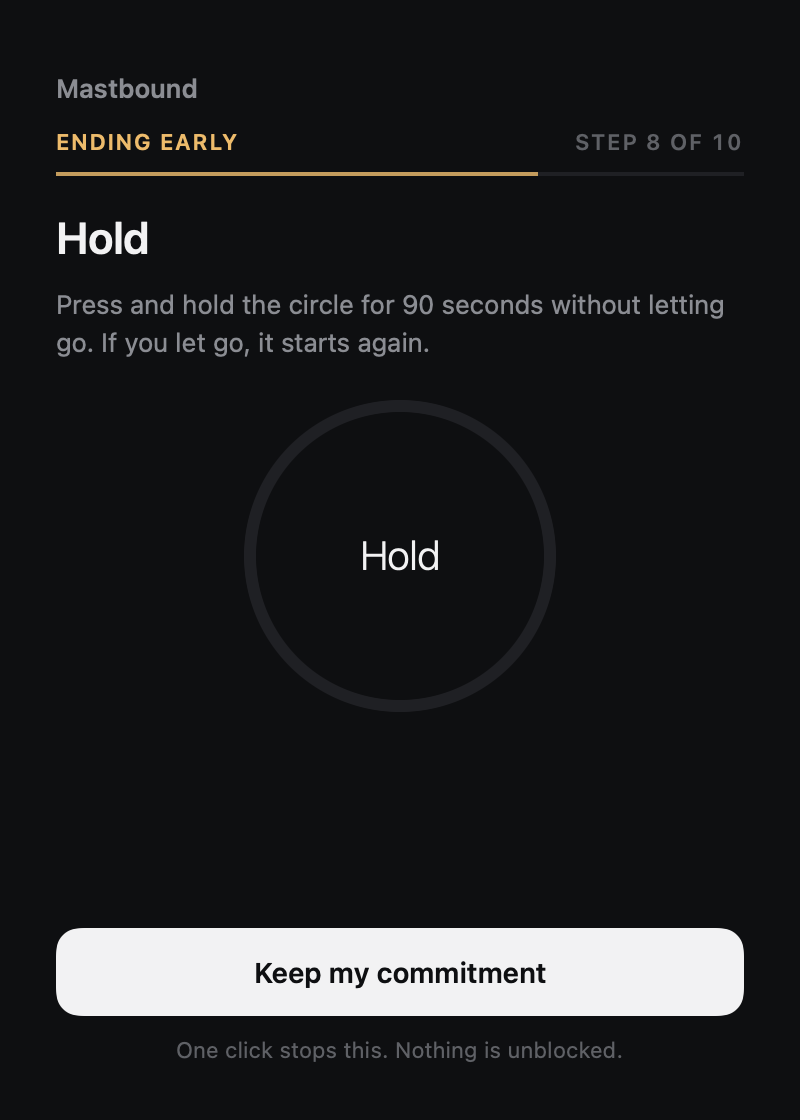
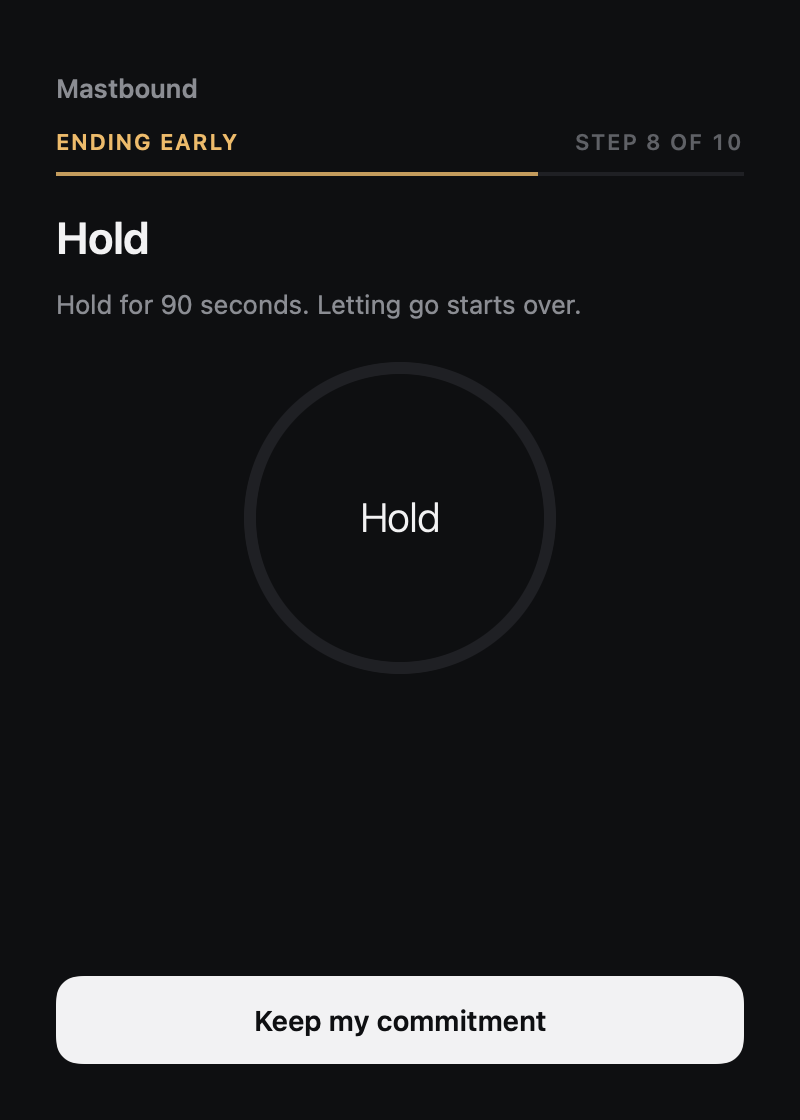
App: cut the early-end flow text to the minimum

Changed region(s): [[0.0625, 0.8125, 0.9375, 0.9688], [0.0625, 0.25, 0.9062, 0.3125], [0.4375, 0.4375, 0.5625, 0.5312]]

diff --git a/Sources/MastboundApp/QuitFlowView.swift b/Sources/MastboundApp/QuitFlowView.swift
@@ -14,15 +14,15 @@ enum QuitStep: Int, CaseIterable {
 
     var title: String {
         switch self {
-        case .intro: "Before you start"
+        case .intro: "End early?"
         case .terms: "Terms"
-        case .codes: "Prove you are paying attention"
-        case .math: "Slow down"
-        case .grid: "Find the numbers"
-        case .reasons: "Write it down"
+        case .codes: "Codes"
+        case .math: "Sums"
+        case .grid: "Grids"
+        case .reasons: "Write"
         case .coolOff: "Wait"
         case .hold: "Hold"
-        case .facts: "Know what you are giving up"
+        case .facts: "Facts"
         case .final: "Last step"
         }
     }
@@ -82,10 +82,6 @@ struct QuitFlowView: View {
             .buttonStyle(PrimaryButtonStyle())
             .disabled(model.isBusy)
             .padding(.top, 12)
-            Text(began ? "One click stops this. Nothing is unblocked." : "Nothing has changed yet.")
-                .font(.system(size: 11))
-                .foregroundStyle(Theme.textTertiary)
-                .padding(.top, 10)
         }
         .onChange(of: quitElapsed == nil) { _, isNil in
             // The open flow lapsed or was stopped from somewhere else.
@@ -252,17 +248,8 @@ private struct IntroStep: View {
 
     var body: some View {
         VStack(alignment: .leading, spacing: 12) {
-            Prose("This takes more than \(Int(timing.gate / 60)) minutes on purpose. If you finish every step, the block stays on for \(QuitTerms.delayText) more, and then it ends.")
-            Prose("You have \(QuitTerms.daysText(remainingSeconds: remaining)) left. A wrong answer locks the step for a short time. Closing Mastbound drops your progress.")
-            VStack(alignment: .leading, spacing: 6) {
-                ForEach(QuitStep.allCases.dropFirst(), id: \.self) { step in
-                    Text("\(step.rawValue + 1).  \(step.title)")
-                        .font(.system(size: 12))
-                        .foregroundStyle(Theme.textTertiary)
-                }
-            }
-            .padding(.top, 4)
-            ForwardButton(title: model.isBusy ? "Waiting for password…" : "Begin (asks for your password)", enabled: !model.isBusy) {
+            Prose("Over \(timing.gate >= 3600 ? "an hour" : "\(Int(timing.gate / 60)) minutes") of puzzles and waiting. Then the block stays \(QuitTerms.delayText) more.")
+            ForwardButton(title: model.isBusy ? "Waiting for password…" : "Begin", enabled: !model.isBusy) {
                 Task { if await model.beginQuit() { done() } }
             }
         }
@@ -291,7 +278,7 @@ private struct TermsStep: View {
 
     var body: some View {
         VStack(alignment: .leading, spacing: 0) {
-            Prose("Read each statement. Agree to all \(terms.count) to go on.")
+            Prose("Agree to all \(terms.count).")
             Text("TERM \(index + 1) OF \(terms.count)")
                 .font(.system(size: 11, weight: .semibold)).tracking(0.8)
                 .foregroundStyle(Theme.textTertiary)
@@ -310,7 +297,7 @@ private struct TermsStep: View {
                 let locked = penalty.secondsLeft(at: now) > 0
                 VStack(alignment: .leading, spacing: 0) {
                     if mustType {
-                        Prose("Type the statement exactly to agree.").padding(.top, 14).padding(.bottom, 8)
+                        Prose("Type it to agree.").padding(.top, 14).padding(.bottom, 8)
                         Field(placeholder: "Type the statement", text: $typed, onSubmit: checkTyped)
                         ForwardButton(title: "Agree", enabled: !locked && !typed.isEmpty, action: checkTyped)
                     } else {
@@ -425,7 +412,7 @@ private struct CodesStep: View {
 
     var body: some View {
         VStack(alignment: .leading, spacing: 0) {
-            Prose("Type the letters and numbers you see. Code \(round + 1) of \(Self.rounds).")
+            Prose("Type the code. \(round + 1) of \(Self.rounds).")
             CaptchaImage(code: code).padding(.top, 14)
             HStack {
                 Spacer()
@@ -474,7 +461,7 @@ private struct MathStep: View {
 
     var body: some View {
         VStack(alignment: .leading, spacing: 0) {
-            Prose("Work it out without a calculator. Problem \(round + 1) of \(Self.rounds).")
+            Prose("No calculator. \(round + 1) of \(Self.rounds).")
             Text("\(problem.a) × \(problem.b) − \(problem.c) = ?")
                 .font(.system(size: 30, weight: .light))
                 .monospacedDigit()
@@ -535,7 +522,7 @@ private struct GridStep: View {
 
     var body: some View {
         VStack(alignment: .leading, spacing: 0) {
-            Prose("Select every square with a \(grid.target). Some are turned. Grid \(round + 1) of \(Self.rounds).")
+            Prose("Select every \(grid.target). \(round + 1) of \(Self.rounds).")
             LazyVGrid(columns: Array(repeating: GridItem(.flexible(), spacing: 6), count: 4), spacing: 6) {
                 ForEach(grid.cells.indices, id: \.self) { index in
                     let cell = grid.cells[index]
@@ -595,7 +582,7 @@ private struct ReasonsStep: View {
 
     var body: some View {
         VStack(alignment: .leading, spacing: 0) {
-            Prose("Answer in your own words. Question \(index + 1) of \(Self.prompts.count).")
+            Prose("\(index + 1) of \(Self.prompts.count).")
             Text(Self.prompts[index])
                 .font(.system(size: 15))
                 .fixedSize(horizontal: false, vertical: true)
@@ -641,13 +628,12 @@ private struct CoolOffStep: View {
         Ticking { now in
             let left = max(0, timing.coolOff - now.timeIntervalSince(startedAt))
             VStack(alignment: .leading, spacing: 0) {
-                Prose("Nothing to do. Stand up. Drink some water. The urge is at its strongest now, and it gets weaker from here.")
+                Prose("The urge gets weaker from here.")
                 Text(clock(left))
                     .font(.system(size: 56, weight: .thin))
                     .monospacedDigit()
                     .frame(maxWidth: .infinity)
                     .padding(.vertical, 24)
-                Prose("If you close Mastbound now, nothing is unblocked and your commitment continues.")
                 ForwardButton(title: "Continue", enabled: left == 0, action: done)
             }
         }
@@ -664,7 +650,7 @@ private struct HoldStep: View {
 
     var body: some View {
         VStack(alignment: .leading, spacing: 0) {
-            Prose("Press and hold the circle for \(Int(timing.hold)) seconds without letting go. If you let go, it starts again.")
+            Prose("Hold for \(Int(timing.hold)) seconds. Letting go starts over.")
             ZStack {
                 Circle().stroke(Theme.surfaceRaised, lineWidth: 6)
                 Circle().trim(from: 0, to: progress)
@@ -708,9 +694,9 @@ private struct FactsStep: View {
 
     var body: some View {
         VStack(alignment: .leading, spacing: 0) {
-            Prose("How many full days are left in your commitment? It is on the main screen; close this flow to look.")
+            Prose("Full days left?")
             Field(placeholder: "Days left", text: $days).padding(.top, 10)
-            Prose("Type this sentence:").padding(.top, 16)
+            Prose("Type:").padding(.top, 16)
             Text(Policy.recoveryPhrase)
                 .font(.system(size: 14, weight: .medium))
                 .padding(.vertical, 8)
@@ -747,14 +733,14 @@ private struct FinalStep: View {
         let wait = max(0, timing.gate - (quitElapsed ?? 0))
         VStack(alignment: .leading, spacing: 0) {
             if wait > 0 {
-                Prose("The last step opens \(Int(timing.gate / 60)) minutes after you began. Mastbound's service checks this, not the app.")
+                Prose("Opens in")
                 Text(clock(wait))
                     .font(.system(size: 56, weight: .thin))
                     .monospacedDigit()
                     .frame(maxWidth: .infinity)
                     .padding(.vertical, 24)
             } else {
-                Prose("If you go on, the block stays on for \(QuitTerms.delayText) more, and then it ends. You can stop it during that time with one click.")
+                Prose("Then the block stays \(QuitTerms.delayText) more.")
             }
             Button {
                 understood.toggle()
@@ -765,7 +751,7 @@ private struct FinalStep: View {
                         .background(RoundedRectangle(cornerRadius: 4).fill(understood ? Theme.textPrimary : .clear))
                         .overlay(Image(systemName: "checkmark").font(.system(size: 10, weight: .bold)).foregroundStyle(Theme.background).opacity(understood ? 1 : 0))
                         .frame(width: 18, height: 18)
-                    Text("I understand that nobody else will see this, and I am the only one who decided it.")
+                    Text("I decided this myself.")
                         .font(.system(size: 13))
                         .fixedSize(horizontal: false, vertical: true)
                     Spacer(minLength: 0)
@@ -774,9 +760,9 @@ private struct FinalStep: View {
             }
             .buttonStyle(.plain)
             .padding(.top, 16)
-            Prose("Type END in capital letters.").padding(.top, 16).padding(.bottom, 8)
+            Prose("Type END.").padding(.top, 16).padding(.bottom, 8)
             Field(placeholder: "END", text: $typed)
-            Button(model.isBusy ? "Waiting for password…" : "End early (asks for your password)") {
+            Button(model.isBusy ? "Waiting for password…" : "End early") {
                 Task { _ = await model.finishQuit() }
             }
             .buttonStyle(SecondaryButtonStyle())
